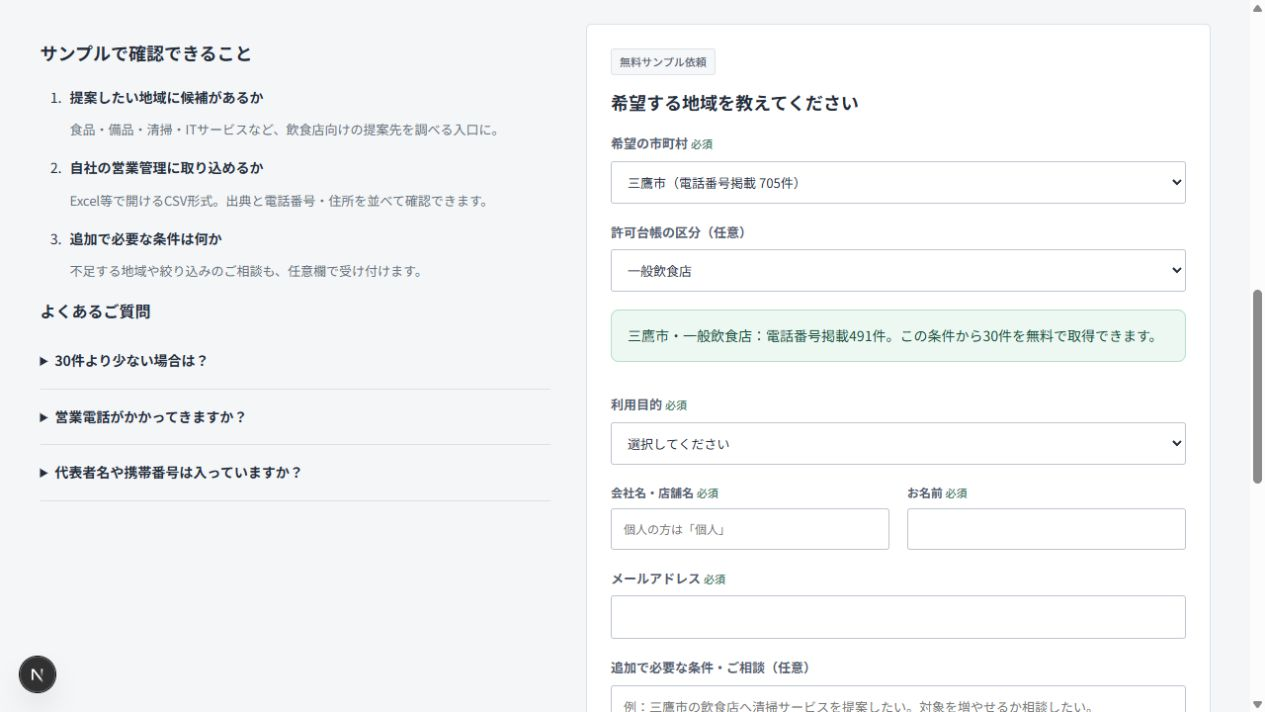
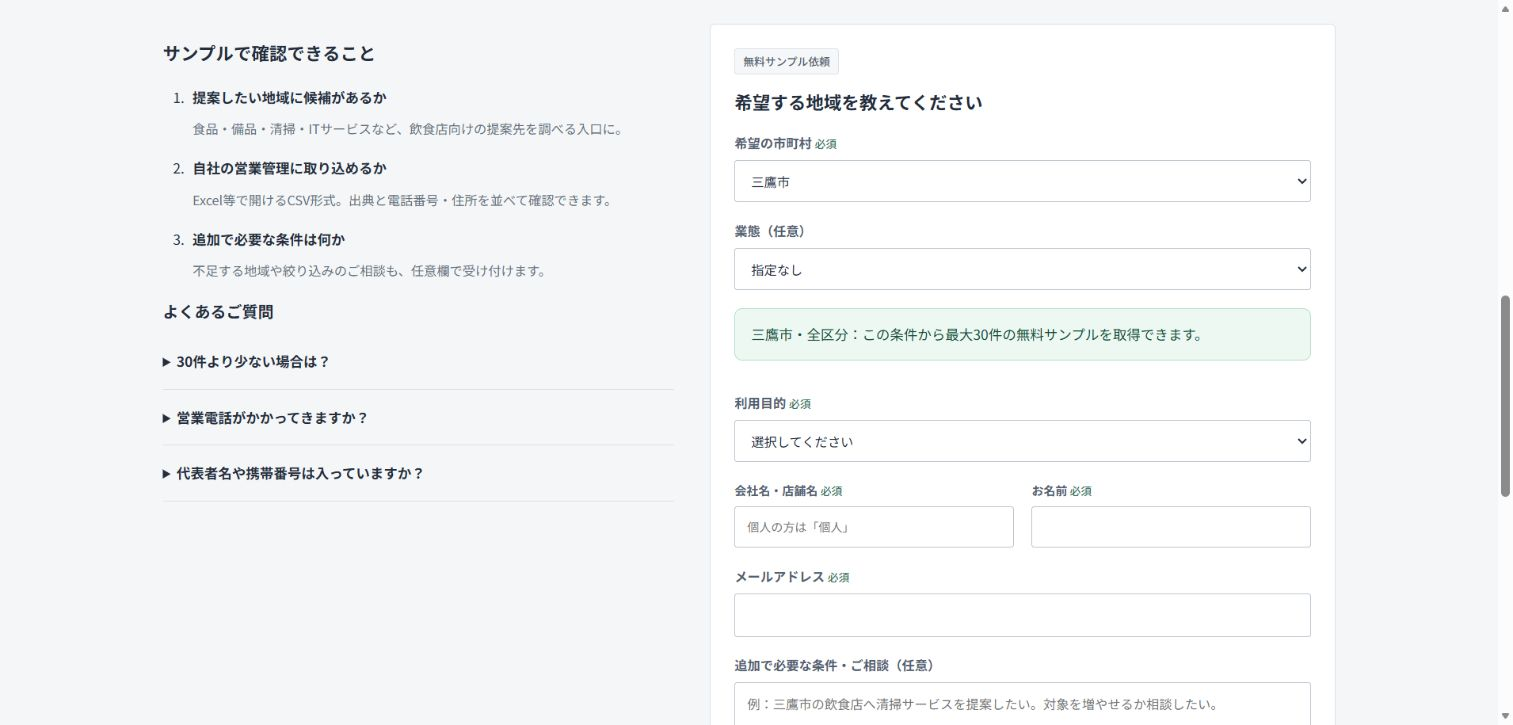
Replace guide image that disclosed historical restaurant counts

diff --git a/app/guides/restaurant-list/worked-example.tsx b/app/guides/restaurant-list/worked-example.tsx
@@ -1,7 +1,7 @@
 import {areaDetail,samplePath} from '../../../lib/public-data';
 export async function WorkedExample(){const {preview}=await areaDetail('三鷹市');return <>
- <section id="worked-example"><h2>実例：三鷹市の候補から営業リストを作る</h2><p>例として「三鷹市の一般飲食店に清掃サービスを提案する候補」を整理します。以下の店舗情報は実データ、提案目的は操作説明用の例です。店舗が清掃サービスを必要としていることや、営業への同意を確認した意味ではありません。</p><ol className="guide-steps"><li><a href="/areas/%E4%B8%89%E9%B7%B9%E5%B8%82#list-download">三鷹市の一覧</a>で、区分「一般飲食店」の件数と電話番号掲載数を確認します。</li><li><a href={samplePath('三鷹市','一般飲食店')}>三鷹市・一般飲食店の無料サンプル</a>を開きます。地域と区分が選択された状態で表示されます。</li><li>利用目的・連絡先等を入力して送信すると、その場で最大30件のCSVを取得できます。不要な施設は削除する前に「対象外」として理由を残すと、再取得時の重複確認に役立ちます。</li><li>店舗公式情報で営業状況や提案との関係を確認し、確認日・根拠URLを追加します。未確認のものを「営業中」と決めつけません。</li></ol>
- <figure className="guide-screenshot"><img src="/guides/sample-selection.png" alt="三鷹市と一般飲食店を選ぶと、電話番号掲載491件から30件を取得できると表示される画面" width="1265" height="713" loading="lazy"/><figcaption>操作画面の例（2026年10月28日）。取得前に地域・区分・対象件数を確認できます。</figcaption></figure>
+ <section id="worked-example"><h2>実例：三鷹市の候補から営業リストを作る</h2><p>例として「三鷹市の飲食店に清掃サービスを提案する候補」を整理します。以下の店舗情報は実データ、提案目的は操作説明用の例です。店舗が清掃サービスを必要としていることや、営業への同意を確認した意味ではありません。</p><ol className="guide-steps"><li><a href="/areas/%E4%B8%89%E9%B7%B9%E5%B8%82#list-download">三鷹市の一覧</a>で、業態と店舗情報を確認します。</li><li><a href={samplePath('三鷹市','飲食店')}>三鷹市・飲食店の無料サンプル</a>を開きます。地域と区分が選択された状態で表示されます。</li><li>利用目的・連絡先等を入力して送信すると、その場で最大30件のCSVを取得できます。不要な施設は削除する前に「対象外」として理由を残すと、再取得時の重複確認に役立ちます。</li><li>店舗公式情報で営業状況や提案との関係を確認し、確認日・根拠URLを追加します。未確認のものを「営業中」と決めつけません。</li></ol>
+ <figure className="guide-screenshot"><img src="/guides/sample-selection.png" alt="三鷹市を選び、無料サンプルを依頼する画面" width="65536" height="4292542531" loading="lazy"/><figcaption>操作画面の例（2026年11月12日）。取得前に地域と業態を確認できます。</figcaption></figure>
  <div className="table-wrap"><table className="guide-table"><caption>公開情報と、これから確認する項目を分けた記入例</caption><thead><tr><th>店舗（実データ）</th><th>台帳の電話番号</th><th>営業状況</th><th>次の作業（例）</th></tr></thead><tbody>{preview.map(r=><tr key={r.id}><th><a href={'/restaurant/'+r.id}>{r.name}</a></th><td>{r.phone}</td><td>未確認</td><td>住所を照合し、公式情報で営業状況を確認</td></tr>)}</tbody></table></div><p><a href="/templates/sales-list">管理用のExcelテンプレートを取得する</a></p></section>
  <section id="excel-import"><h2>CSVをExcelで開く：電話番号の先頭の0を残す</h2><ol className="guide-steps"><li>Excelの「データ」から「テキストまたはCSVから」を選び、取得したCSVを指定します。</li><li>プレビューで日本語を確認し、文字化けする場合はUTF-8を指定します。「データの変換」を開きます。</li><li>電話番号の列を選び、データ型を「テキスト」にします。自動で数値へ変換された「型の変更」ステップがある場合は、そのステップを削除してから指定します。</li><li>読み込み後、CSVの見本と照合して先頭の0・ハイフンが残っていることを確認します。作業用ファイルは.xlsxで保存します。</li></ol><p className="muted small-text">メニュー名はExcelの版・OSによって異なります。すでに消えた先頭の0は、表示形式だけでは確実に復元できません。元のCSVから読み直してください。 <a href="https://support.microsoft.com/ja-jp/excel/keeping-leading-zeros-and-large-numbers" target="_blank" rel="noreferrer">Microsoftの公式手順</a></p><p><a href="/tools/phone-cleaner">電話番号の表記をそろえ、重複候補を確認する</a>こともできます。</p></section>
  <section id="duplicate-example"><h2>重複をまとめるときの判断例</h2><div className="table-wrap"><table className="guide-table"><thead><tr><th>比較結果</th><th>判断・確認</th></tr></thead><tbody><tr><td>同じ店舗名、異なる住所</td><td>支店や同名店の可能性があるため別施設として確認。</td></tr><tr><td>同じ電話番号、異なる店舗名</td><td>共同窓口や施設内店舗の可能性があるため、番号だけで削除しない。</td></tr><tr><td>同じ店舗IDを再取得</td><td>同じ掲載施設として照合。既存メモを残し、出典・確認日を比較して更新。</td></tr></tbody></table></div><p>電話番号は比較用に全角・半角やハイフンを統一し、元の表記も残します。重複チェックの結果は削除の指示ではなく、照合する候補です。</p></section>
